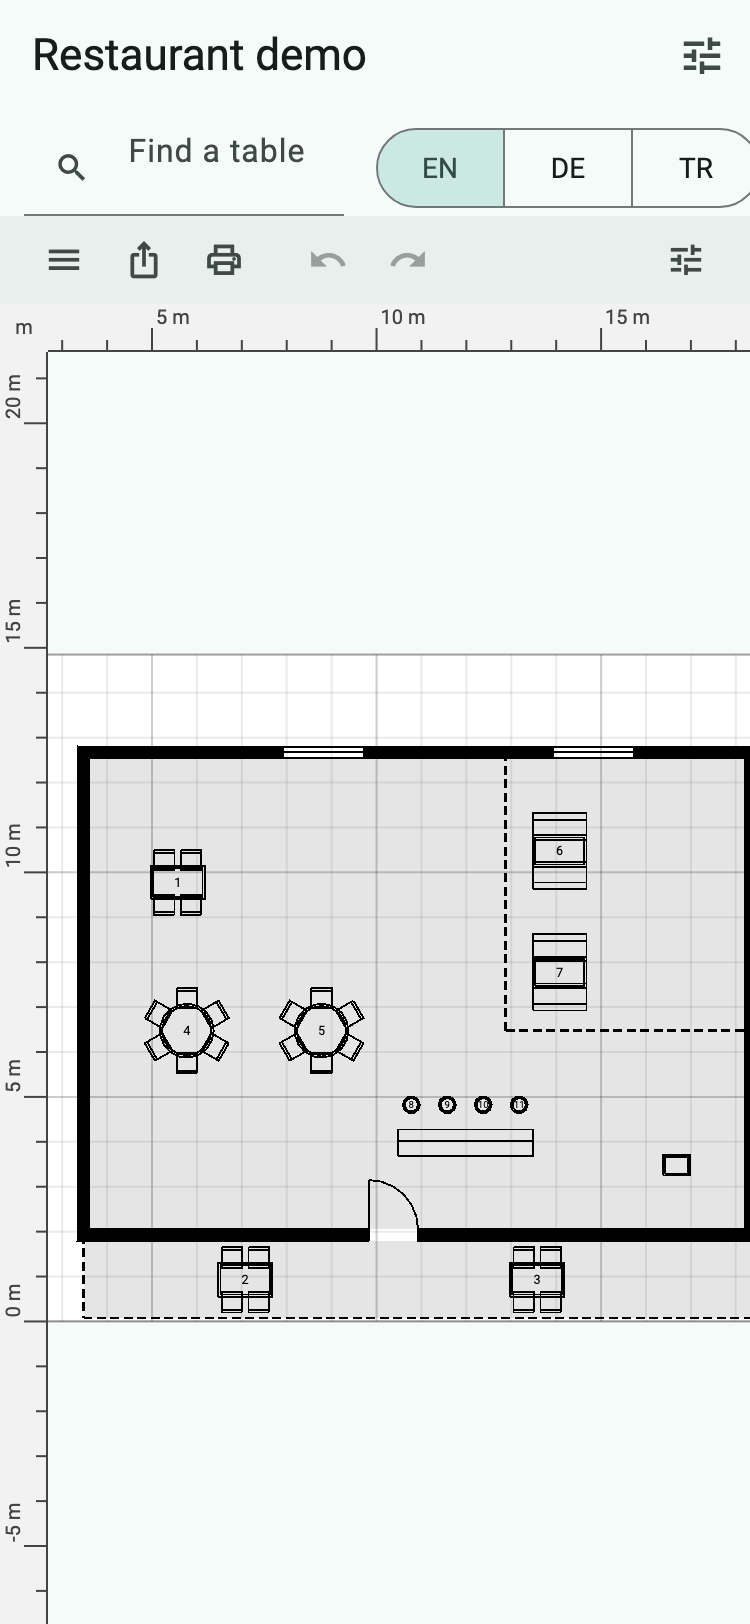
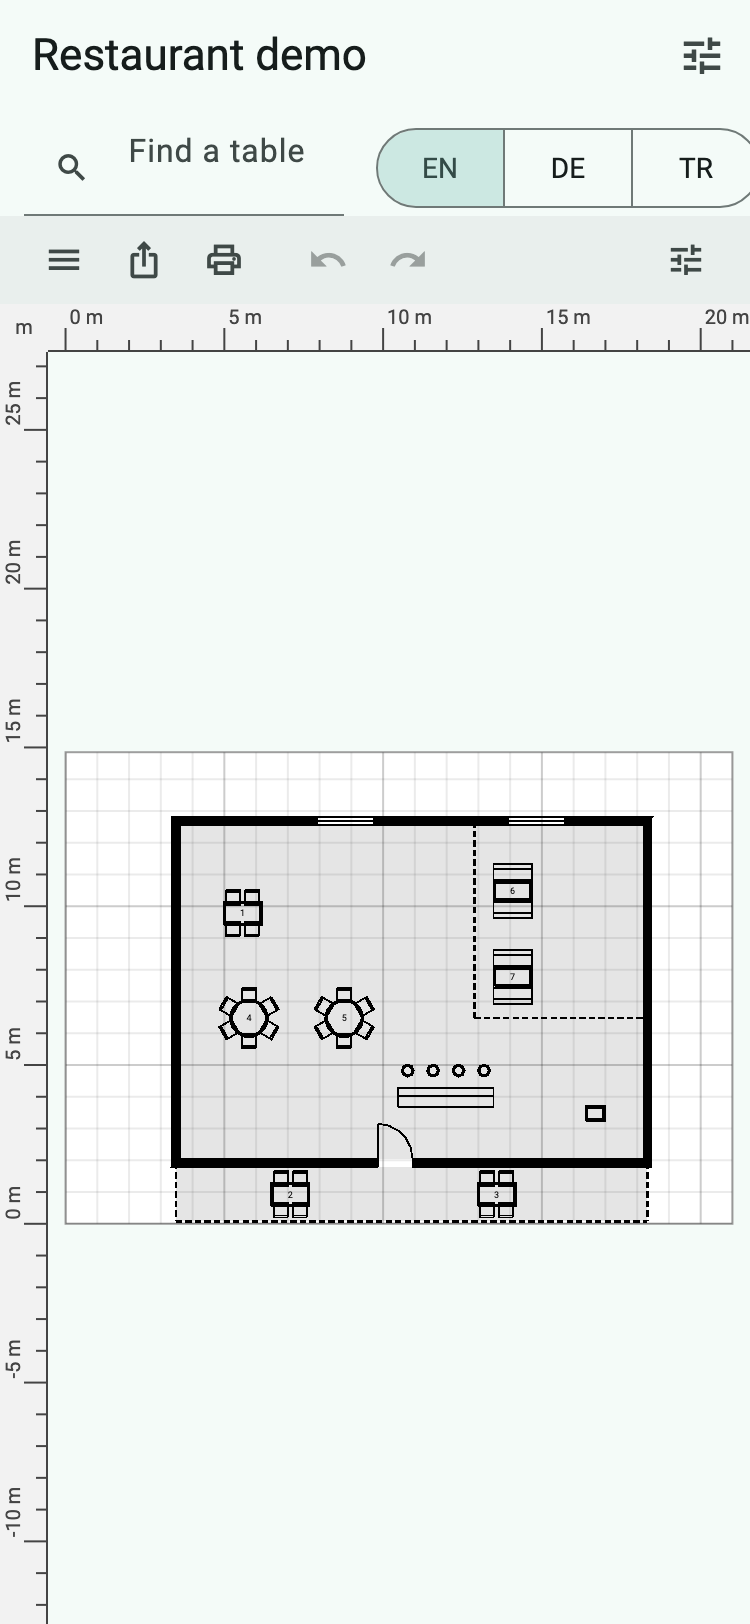
fix(plan): the first fit shows the whole page on a narrow canvas
A host build that changes the page (the demo's Salon: A3 over the default
A4) left the session's page notifier on the old page until its change
stream delivered, after the first frame's post-frame fit: the canvas framed
the A4 sheet. The controller seeds the notifier again after the build.
The demo's look test window grows to keep its tables as large; the phone
screenshot is regenerated.

diff --git a/packages/jet_cad_2d_plan/test/editor/first_fit_test.dart b/packages/jet_cad_2d_plan/test/editor/first_fit_test.dart
@@ -1,0 +1,63 @@
+// POS-host fix wave: the first fit shows the whole sheet on every layout.
+import 'package:flutter/material.dart';
+import 'package:flutter_test/flutter_test.dart';
+import 'package:jet_cad_2d/jet_cad_2d.dart';
+import 'package:jet_cad_2d_kit/jet_cad_2d_kit.dart' show KitWords;
+import 'package:jet_cad_2d_plan/jet_cad_2d_plan.dart';
+
+import '../support/mark_kit.dart';
+
+/// A3 landscape at 1:50, off the origin, set by a host build.
+void a3Build(DraftDocument doc, KitWords words) {
+  doc.commands.execute(SetComponentCommand<PageComponent>(
+      doc.rootHandle,
+      PageComponent(
+          widthMm: 297,
+          heightMm: 420,
+          orientation: PageOrientation.landscape,
+          scaleDenominator: 50,
+          originX: 7000,
+          originY: -3000)));
+}
+
+void main() {
+  for (final (w, h) in [(375.0, 812.0), (800.0, 1280.0), (1440.0, 900.0)]) {
+    testWidgets(
+        'FF $w x $h: the first fit maps the whole sheet into the canvas',
+        (tester) async {
+      // The controller is made inside the first build, as an app's State
+      // does: the build's page change reaches the page notifier's stream
+      // only after the first frame's post-frame callbacks.
+      PlanController? made;
+      addTearDown(() => made?.dispose());
+      await tester.binding.setSurfaceSize(Size(w, h));
+      addTearDown(() => tester.binding.setSurfaceSize(null));
+      await tester.pumpWidget(
+          MaterialApp(home: Scaffold(body: Builder(builder: (context) {
+        return PlanEditor(
+            controller: made ??=
+                PlanController(kits: [markKit()], build: a3Build),
+            gallery: false);
+      }))));
+      final c = made!;
+      for (var i = 0; i < 4; i++) {
+        await tester.pump();
+      }
+      final canvas = tester.getRect(find.byKey(const Key('chrome-canvas')));
+      final page =
+          c.document.components.get<PageComponent>(c.document.rootHandle)!;
+      final sheet = sheetWorldRect(page);
+      final m = c.camera.value.worldToScreenMatrix;
+      Offset toScreen(double x, double y) => Offset(
+          m.a * x + m.c * y + m.e + canvas.left,
+          m.b * x + m.d * y + m.f + canvas.top);
+      final a = toScreen(sheet.minX, sheet.minY);
+      final b = toScreen(sheet.maxX, sheet.maxY);
+      final r = Rect.fromPoints(a, b);
+      expect(canvas.inflate(0.5).contains(r.topLeft), isTrue,
+          reason: 'sheet $r in canvas $canvas');
+      expect(canvas.inflate(0.5).contains(r.bottomRight), isTrue,
+          reason: 'sheet $r in canvas $canvas');
+    });
+  }
+}

diff --git a/apps/restaurant_demo/test/look_test.dart b/apps/restaurant_demo/test/look_test.dart
@@ -68,13 +68,18 @@ final class Shot {
       ];
 }
 
+/// The window of these tests. The first fit shows the whole A3 sheet (it
+/// framed the A4 sheet the build replaced before the fit fix): the window is
+/// as much larger as the tables were once drawn larger than the sheet.
+const Size kWindow = Size(2300, 1450);
+
 /// The window as it is now: the route's boundary, the whole screen.
 Future<Shot> shoot(WidgetTester tester) async {
   final boundary = tester.renderObject<RenderRepaintBoundary>(find
       .ancestor(
           of: find.byType(Scaffold), matching: find.byType(RepaintBoundary))
       .first);
-  expect(boundary.size, const Size(1600, 1000), reason: 'premise: the window');
+  expect(boundary.size, kWindow, reason: 'premise: the window');
   return (await tester.runAsync(() async {
     final image = await boundary.toImage();
     final raw = await image.toByteData(format: ui.ImageByteFormat.rawRgba);
@@ -183,7 +188,7 @@ void main() {
         tester.platformDispatcher.platformBrightnessTestValue = Brightness.dark;
         addTearDown(tester.platformDispatcher.clearPlatformBrightnessTestValue);
       }
-      final demo = await pumpDemo(tester);
+      final demo = await pumpDemo(tester, size: kWindow);
       final c = demo.area.controller;
       final light = brightness == Brightness.light;
       final pos = posPlanTheme(brightness);

diff --git a/packages/jet_cad_2d_plan/lib/src/controller/plan_controller.dart b/packages/jet_cad_2d_plan/lib/src/controller/plan_controller.dart
@@ -1953,7 +1953,15 @@ class PlanController extends ChangeNotifier {
     // Spec 3a C1.9: the host's build, over this session's system, before
     // the views listen, the change tracker takes its baseline and the save
     // point is taken.
-    if (build != null) _runBuild(document, build);
+    if (build != null) {
+      _runBuild(document, build);
+      // The session's page notifier was seeded before the build and hears
+      // the build's page only from its change stream, after the frame in
+      // which the canvas makes its first fit: seed it again, or that fit
+      // frames the page the plan had before the build.
+      session.page.value =
+          document.components.get<PageComponent>(document.rootHandle);
+    }
     session.tools.addListener(_onTools);
     session.history = document.commands.changes.listen((_) {
       if (!_disposed) _onDesignChange();

diff --git a/docs/superpowers/notes/2026-10-20-plan-host-objects-results.md b/docs/superpowers/notes/2026-10-20-plan-host-objects-results.md
@@ -64,7 +64,8 @@ Garden sections, real Roboto).
 | 10 demo | e7899f06, 147b0bc8 |
 | 10c name capability, sectionDetails | 8d8d60ca, 32701b77 (import fixup), dd1f2c06, 847ccd16, df384066, 109853a0, e6b3b064 (guide) |
 | 10b touch double tap | e42a1307, 29617430 |
-| 11 close | this commit |
+| 11 close | ea002d52 |
+| 12 fix wave: first fit | the fit fix commit: a host `build` that changes the page left the page notifier stale at the canvas's first fit, so the A4 sheet the build replaced was framed (phone screenshot regenerated) |
 
 ## Rulings and what each costs if wrong
 
